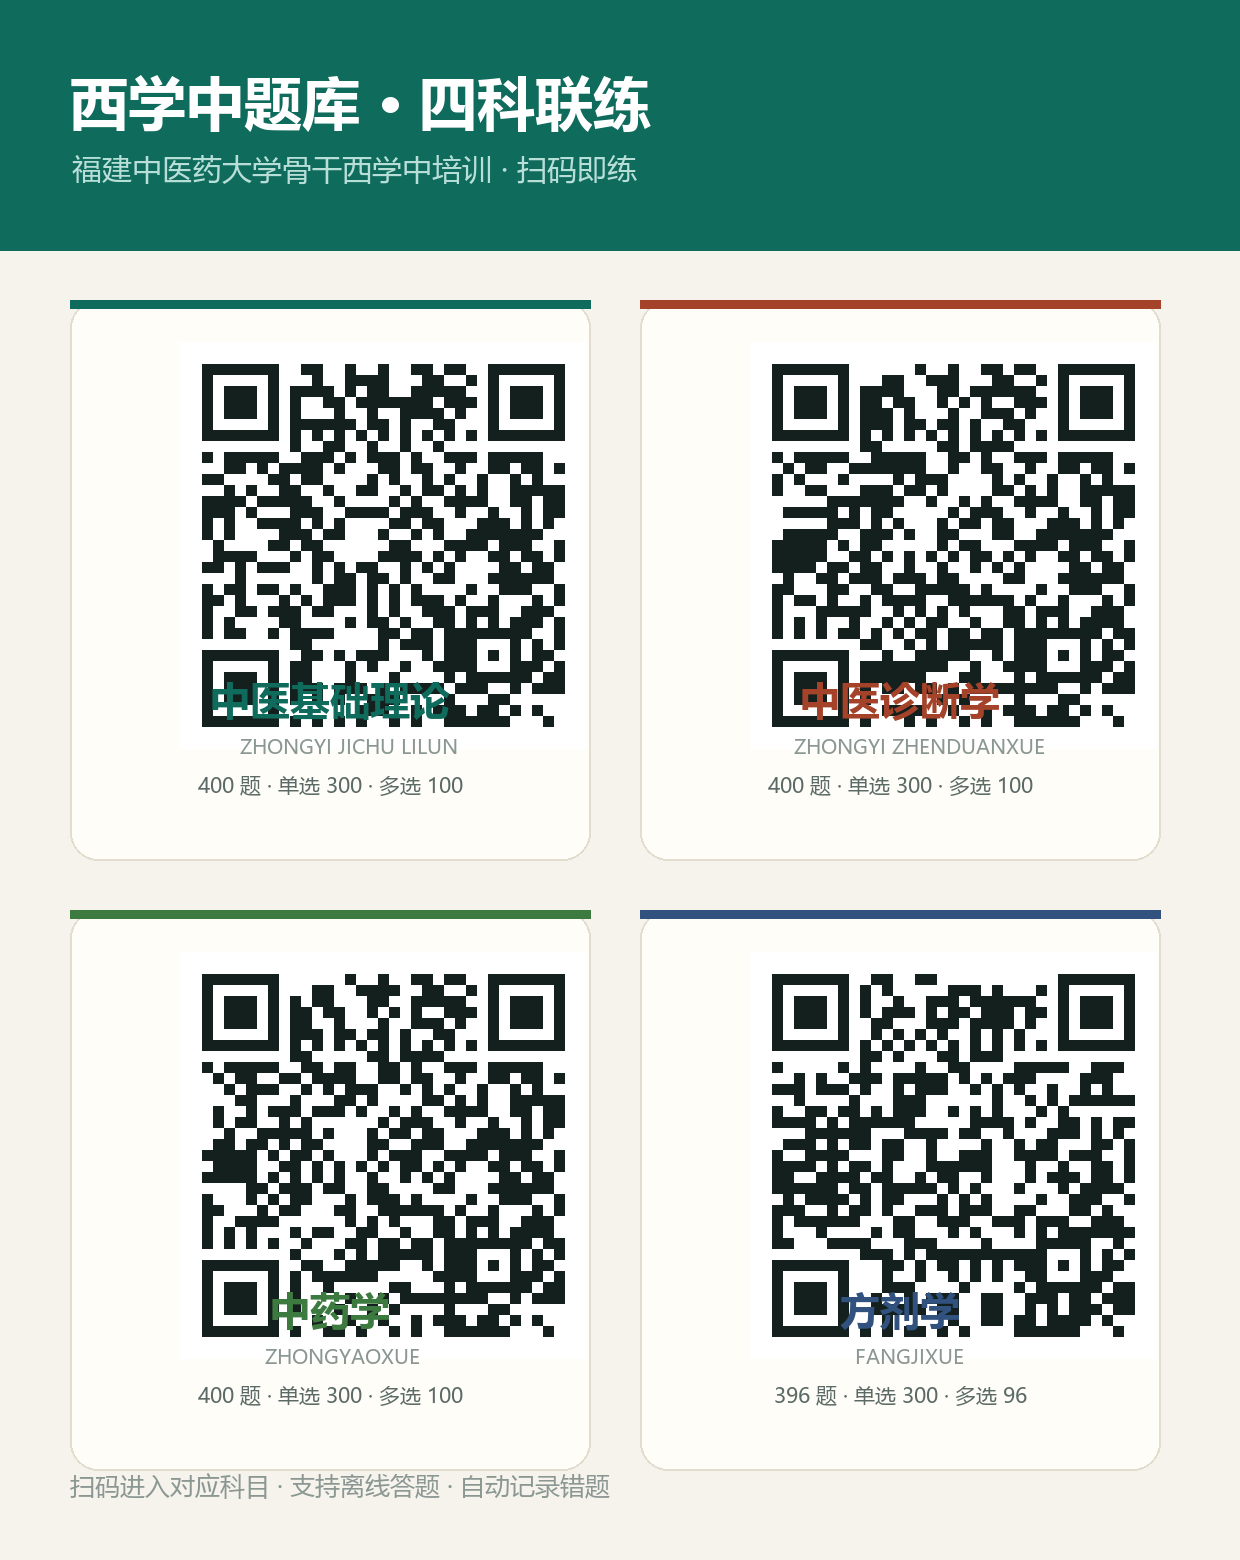
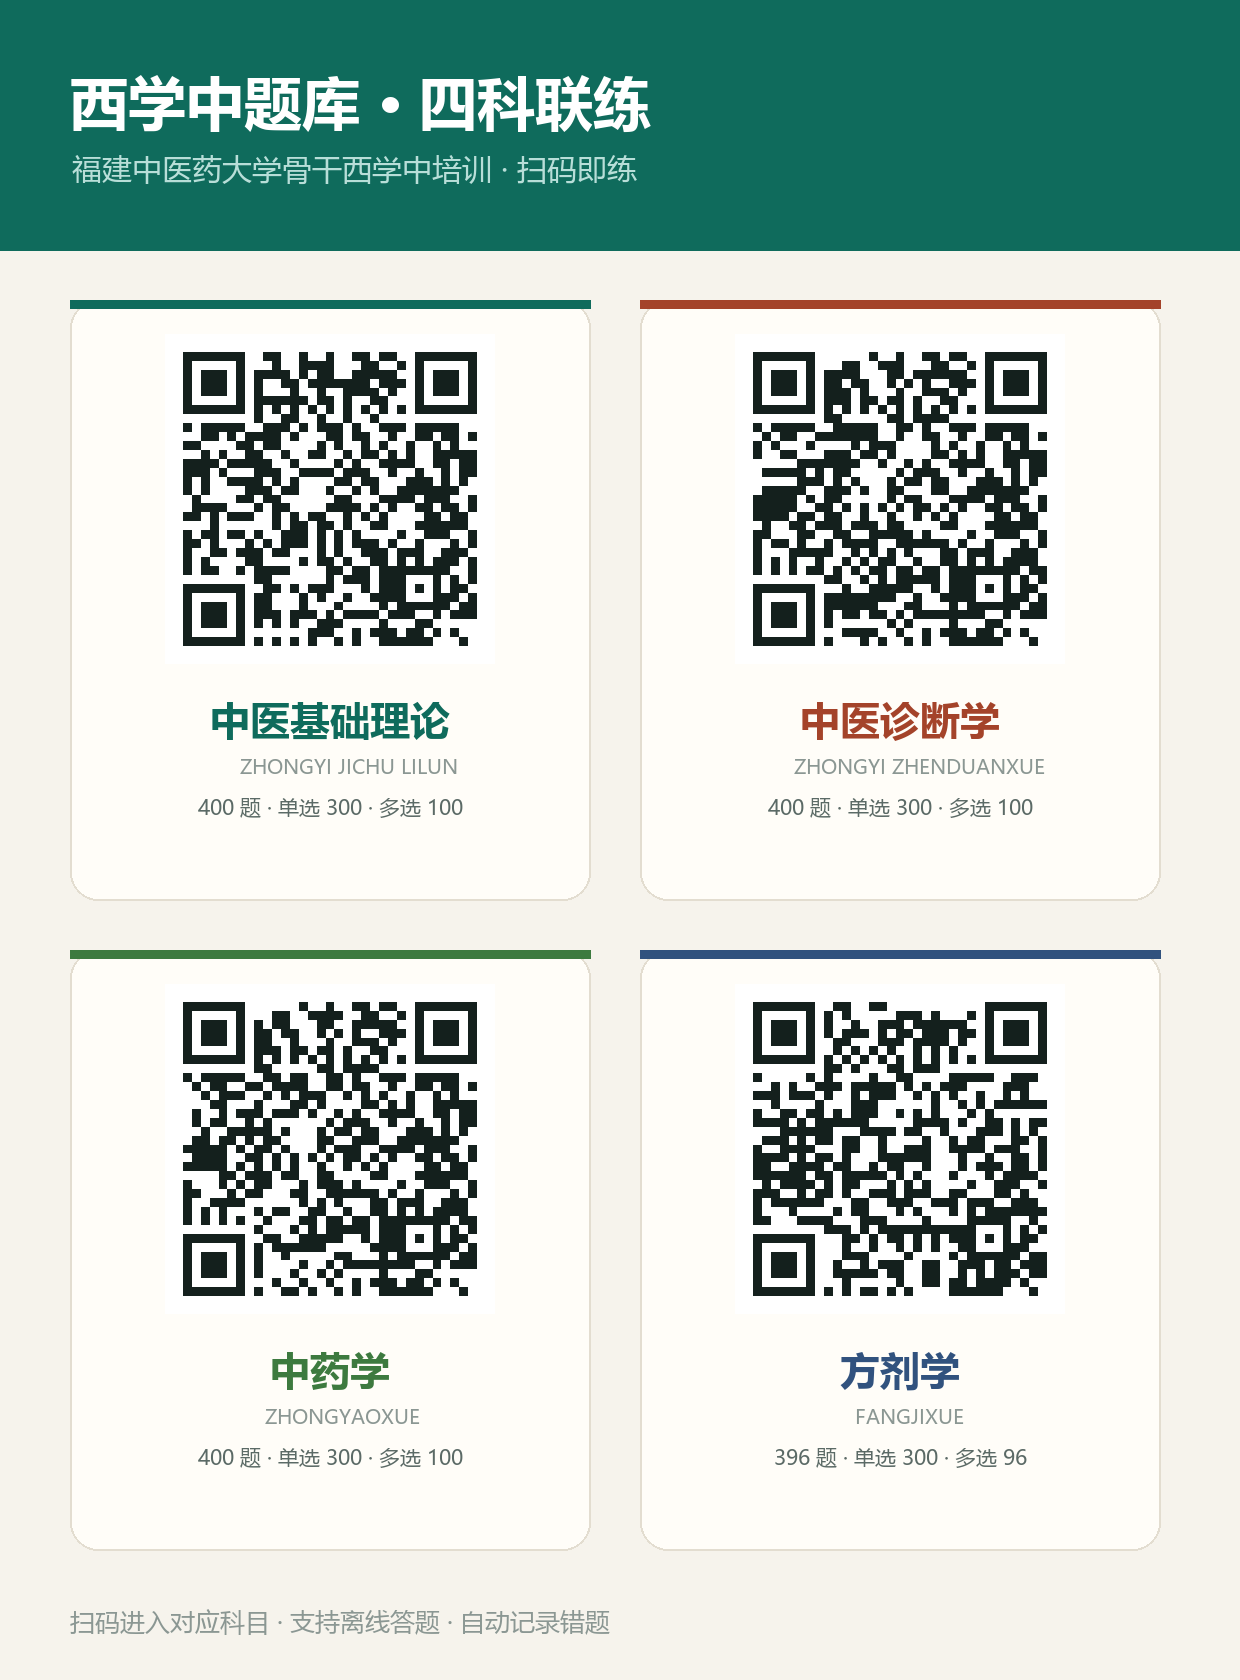
答题页细节修正：图例栏、章节统计上限、考试交卷入口；二维码海报排版修正

Changed region(s): [[0.0, 0.0308, 1.0, 0.5231], [0.0613, 0.5538, 0.4903, 0.9846], [0.521, 0.5538, 0.95, 0.9231]]

diff --git a/ximing/fangji.html b/ximing/fangji.html
@@ -271,7 +271,8 @@ button{font:inherit;color:inherit;background:none;border:none;cursor:pointer}
 .gi.did{background:color-mix(in srgb,var(--c1) 12%,transparent);color:var(--c1)}
 .gi.cur{box-shadow:0 0 0 2px var(--c1);color:var(--c1);font-weight:800}
 .gi.none{opacity:.35;pointer-events:none}
-.legend{display:flex;gap:14px;padding:0 18px 16px;font-size:11px;color:var(--mut);flex-wrap:wrap;flex:0 0 auto}
+.legend{display:flex;gap:14px;padding:11px 18px 16px;font-size:11px;color:var(--mut);flex-wrap:wrap;flex:0 0 auto;
+  background:var(--card);border-top:1px solid var(--line)}
 .legend i{display:inline-block;width:9px;height:9px;border-radius:3px;margin-right:4px;vertical-align:-1px}
 
 /* 二维码弹层 */

diff --git a/ximing/jichu.html b/ximing/jichu.html
@@ -271,7 +271,8 @@ button{font:inherit;color:inherit;background:none;border:none;cursor:pointer}
 .gi.did{background:color-mix(in srgb,var(--c1) 12%,transparent);color:var(--c1)}
 .gi.cur{box-shadow:0 0 0 2px var(--c1);color:var(--c1);font-weight:800}
 .gi.none{opacity:.35;pointer-events:none}
-.legend{display:flex;gap:14px;padding:0 18px 16px;font-size:11px;color:var(--mut);flex-wrap:wrap;flex:0 0 auto}
+.legend{display:flex;gap:14px;padding:11px 18px 16px;font-size:11px;color:var(--mut);flex-wrap:wrap;flex:0 0 auto;
+  background:var(--card);border-top:1px solid var(--line)}
 .legend i{display:inline-block;width:9px;height:9px;border-radius:3px;margin-right:4px;vertical-align:-1px}
 
 /* 二维码弹层 */

diff --git a/ximing/zhenduan.html b/ximing/zhenduan.html
@@ -271,7 +271,8 @@ button{font:inherit;color:inherit;background:none;border:none;cursor:pointer}
 .gi.did{background:color-mix(in srgb,var(--c1) 12%,transparent);color:var(--c1)}
 .gi.cur{box-shadow:0 0 0 2px var(--c1);color:var(--c1);font-weight:800}
 .gi.none{opacity:.35;pointer-events:none}
-.legend{display:flex;gap:14px;padding:0 18px 16px;font-size:11px;color:var(--mut);flex-wrap:wrap;flex:0 0 auto}
+.legend{display:flex;gap:14px;padding:11px 18px 16px;font-size:11px;color:var(--mut);flex-wrap:wrap;flex:0 0 auto;
+  background:var(--card);border-top:1px solid var(--line)}
 .legend i{display:inline-block;width:9px;height:9px;border-radius:3px;margin-right:4px;vertical-align:-1px}
 
 /* 二维码弹层 */

diff --git a/ximing/zhongyao.html b/ximing/zhongyao.html
@@ -271,7 +271,8 @@ button{font:inherit;color:inherit;background:none;border:none;cursor:pointer}
 .gi.did{background:color-mix(in srgb,var(--c1) 12%,transparent);color:var(--c1)}
 .gi.cur{box-shadow:0 0 0 2px var(--c1);color:var(--c1);font-weight:800}
 .gi.none{opacity:.35;pointer-events:none}
-.legend{display:flex;gap:14px;padding:0 18px 16px;font-size:11px;color:var(--mut);flex-wrap:wrap;flex:0 0 auto}
+.legend{display:flex;gap:14px;padding:11px 18px 16px;font-size:11px;color:var(--mut);flex-wrap:wrap;flex:0 0 auto;
+  background:var(--card);border-top:1px solid var(--line)}
 .legend i{display:inline-block;width:9px;height:9px;border-radius:3px;margin-right:4px;vertical-align:-1px}
 
 /* 二维码弹层 */
